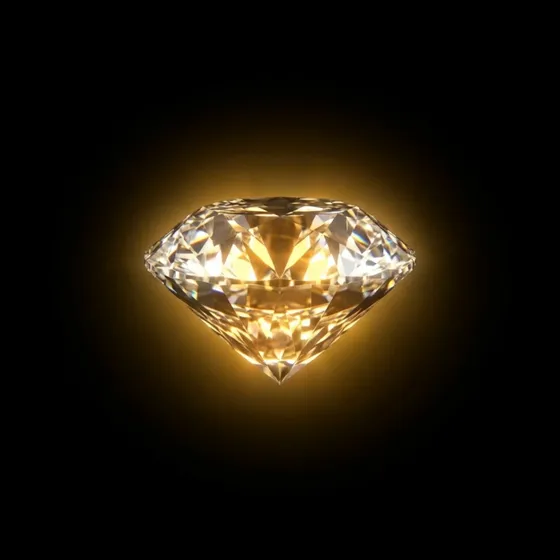
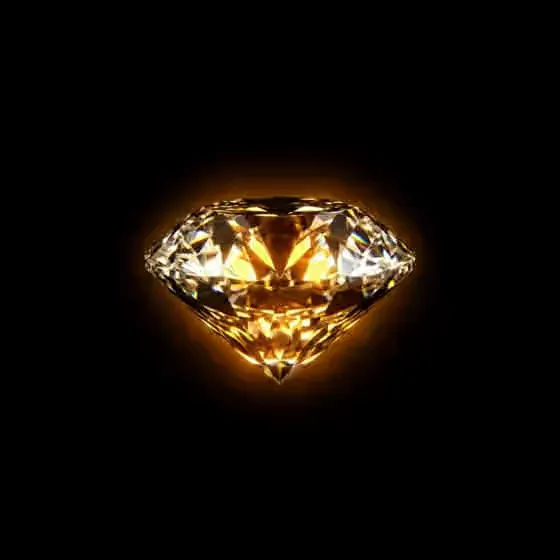
Kimlik Elması: kenar çizgilerini gider (siyahı ez + kenar feather)
Dönen elmas videosunun zemini tam siyah olmadığı için screen blend hafif bir
dikdörtgen (üst/alt/sağ/sol düz çizgiler) gösteriyordu. İki kat düzeltme:
- Video yeniden kodlandı: ffmpeg curves ile siyah TAM siyaha ezildi → screen
  blend'de zemin tamamen kaybolur, kare kalmaz.
- Maske circle→closest-side (78%→100%): 4 kenara kadar yumuşar, elması kırpmadan
  kenar çizgilerini eritir.

public/elmas/elmas-loop.mp4 + poster yeniden üretildi. tsc + build temiz.

Claude-Session: https://claude.ai/code/session_016vEmeDv1QKx4bsXvb1Tc5M

Changed region(s): [[0.1821, 0.2125, 0.8196, 0.7893]]

diff --git a/liderlik-aynasi/components/elmas/KimlikElmasi.tsx b/liderlik-aynasi/components/elmas/KimlikElmasi.tsx
@@ -82,8 +82,12 @@ export default function KimlikElmasi({
               className="h-full w-full object-cover"
               style={{
                 mixBlendMode: "screen",
-                WebkitMaskImage: "radial-gradient(circle, #000 55%, transparent 80%)",
-                maskImage: "radial-gradient(circle, #000 55%, transparent 80%)",
+                // (1) Videonun siyahı TAM siyaha ezildi (ffmpeg curves) → screen
+                // blend'de zemin tamamen kaybolur, kare/dikdörtgen kalmaz.
+                // (2) closest-side maske 4 kenara KADAR yumuşar → üst/alt/sağ/sol
+                // düz çizgi olmaz; elması kırpmadan kenarı eritir.
+                WebkitMaskImage: "radial-gradient(closest-side, #000 78%, transparent 100%)",
+                maskImage: "radial-gradient(closest-side, #000 78%, transparent 100%)",
               }}
             />
           </div>